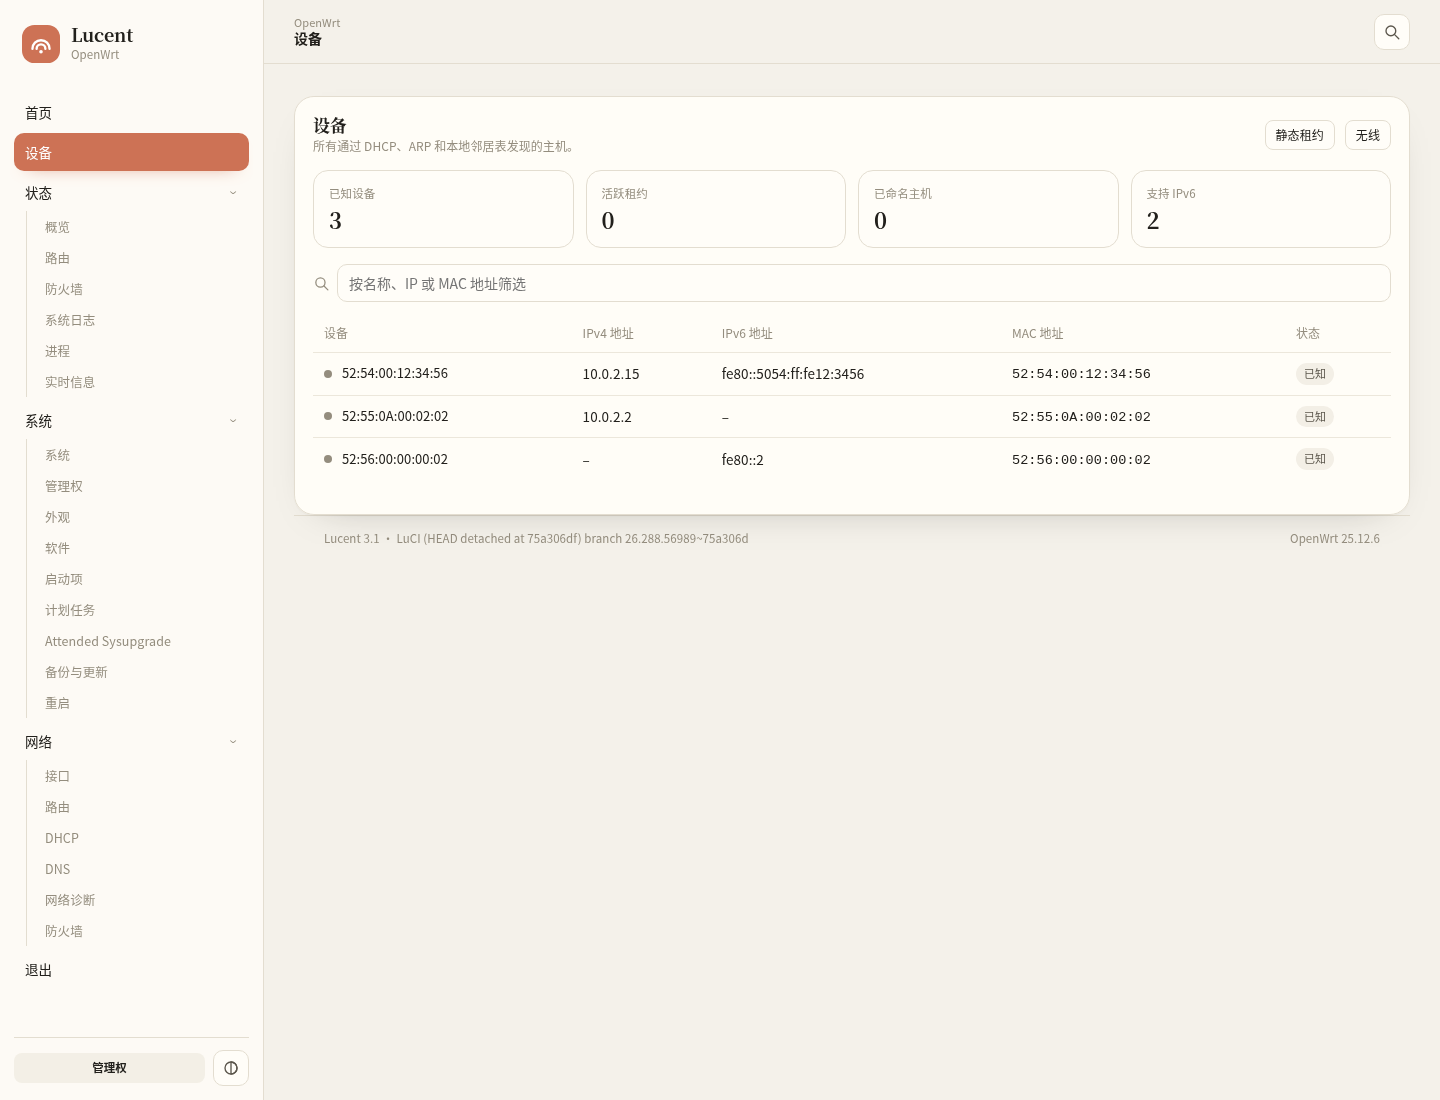
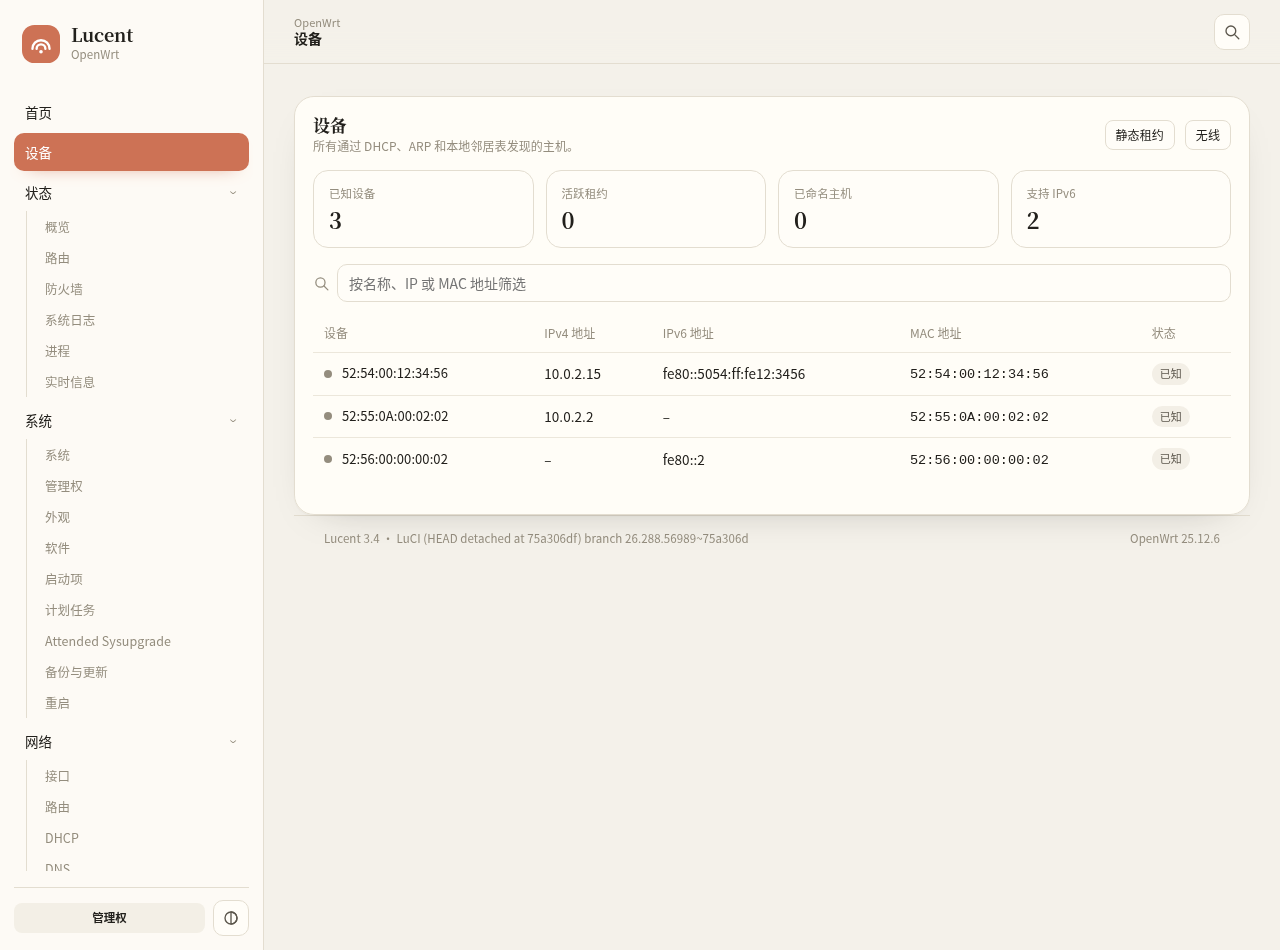
fix: release Lucent 3.4.0 (home route, loading anim, topology, tooltips, indicators)
- Home 'Software' quick action now targets admin/system/package-manager (was 404)
- .spinning loader draws ring via ::before so label text no longer rotates
- Home network topology shares card width; WiFi node no longer clipped ~768px
- Native .cbi-tooltip hidden by default, revealed on .cbi-tooltip-container hover
  (fixes overlapping interface badges and global data-tooltip popups)
- #indicators styled for real span[data-indicator] markup with active spinner
- Wireless quick action only rendered when a radio is present
- Version bump 3.3.0 -> 3.4.0, refreshed Chinese screenshots

diff --git a/htdocs/luci-static/lucent/theme.css b/htdocs/luci-static/lucent/theme.css
@@ -169,7 +169,11 @@ body:has(.ltc-wall) .ltc-lbox{background:color-mix(in srgb,var(--card) var(--gla
 .ltc-bar-right{margin-left:auto;display:flex;align-items:center;gap:8px}
 #indicators{display:flex;align-items:center;gap:6px;font-size:12px;color:var(--text-3)}
 #indicators:empty{display:none}
-#indicators .label{display:inline-flex;align-items:center;gap:6px;padding:5px 10px;border-radius:99px;background:var(--card);border:1px solid var(--line);white-space:nowrap}
+#indicators span[data-indicator]{display:inline-flex;align-items:center;gap:6px;padding:5px 10px;border-radius:99px;background:var(--card);border:1px solid var(--line);white-space:nowrap}
+#indicators span[data-indicator][data-style="active"]::before{content:'';flex:0 0 auto;width:11px;height:11px;border:2px solid var(--line);border-top-color:var(--accent);border-radius:50%;animation:ltc-spin .7s linear infinite}
+#indicators span[data-indicator][data-style="inactive"]{opacity:.72}
+#indicators span[data-indicator][data-clickable]{cursor:pointer}
+#indicators span[data-indicator][data-clickable]:hover{border-color:var(--accent);color:var(--text)}
 .ltc-icon-btn{
 	width:36px;height:36px;flex:none;display:grid;place-items:center;border:1px solid var(--line);
 	border-radius:10px;background:var(--card);color:var(--text-2);cursor:pointer;transition:background .18s,color .18s;
@@ -270,6 +274,14 @@ fieldset{min-width:0;border:0;margin:0;padding:0}
 .ifacebadge{display:inline-flex;align-items:center;gap:5px;padding:4px 7px;border-radius:7px;background:var(--card-2);font-size:11.5px}
 .zonebadge{display:inline-flex;align-items:center;gap:4px;padding:3px 7px;border-radius:99px;background:var(--tint);font-size:11px}
 
+/* native tooltips: global body-level popup (JS toggles opacity) + inline badges in .cbi-tooltip-container */
+.cbi-tooltip{position:absolute;left:0;top:0;z-index:1000;opacity:0;pointer-events:none;transition:opacity .12s ease;max-width:min(340px,82vw);padding:8px 11px;border:1px solid var(--line);border-radius:9px;background:var(--card);color:var(--text);box-shadow:var(--shadow-pop);font-size:11.5px;line-height:1.55;white-space:normal;text-align:left}
+.cbi-tooltip-container{position:relative;display:inline-flex;align-items:center;cursor:help}
+.cbi-tooltip-container > .cbi-tooltip{left:50%;top:auto;bottom:calc(100% + 8px);transform:translateX(-50%)}
+.cbi-tooltip-container:hover > .cbi-tooltip,.cbi-tooltip-container:focus-within > .cbi-tooltip{opacity:1}
+.cbi-tooltip img{display:none}
+.cbi-tooltip .left,.cbi-tooltip .right{display:block}
+
 /* ---------------------------------------------------------------- nav tabs */
 .tabs,.cbi-tabmenu{display:flex;flex-wrap:wrap;gap:4px;list-style:none;margin:0 0 18px;padding:0;border-bottom:1px solid var(--line)}
 .tabs>li,.cbi-tabmenu>li{flex:none;margin:0;padding:0;background:none!important;border:0}
@@ -340,18 +352,18 @@ fieldset{min-width:0;border:0;margin:0;padding:0}
 .ltc-kpi span{display:block;color:var(--text-3);font-size:11.5px;margin-top:3px;overflow-wrap:anywhere}
 
 .ltc-topo{display:flex;align-items:flex-start;gap:2px;margin:6px 0 14px;min-width:0}
-.ltc-node{flex:0 0 auto;width:66px;min-width:0;display:flex;flex-direction:column;align-items:center;gap:5px;text-align:center}
-.ltc-node .ic{width:48px;height:48px;display:grid;place-items:center;border-radius:14px;background:var(--card-2);color:var(--text-2)}
+.ltc-node{flex:1 1 0;min-width:0;display:flex;flex-direction:column;align-items:center;gap:5px;text-align:center}
+.ltc-node .ic{width:clamp(38px,9vw,48px);height:clamp(38px,9vw,48px);display:grid;place-items:center;border-radius:14px;background:var(--card-2);color:var(--text-2)}
 .ltc-node .ic svg{width:23px;height:23px;fill:none;stroke:currentColor;stroke-width:1.7;stroke-linecap:round;stroke-linejoin:round}
 .ltc-node.me .ic{background:var(--accent);color:var(--on-accent)}
 .ltc-node.bad .ic{background:color-mix(in srgb,var(--bad) 14%,transparent);color:var(--bad)}
 .ltc-node.ok .ic{background:color-mix(in srgb,var(--ok) 15%,transparent);color:var(--ok)}
-.ltc-node b{font-weight:600;font-size:clamp(10.5px,2.9cqi,13px);max-width:100%;white-space:nowrap;overflow:hidden;text-overflow:ellipsis}
-.ltc-node small{color:var(--text-3);font-size:11.5px;max-width:100%;white-space:nowrap;overflow:hidden;text-overflow:ellipsis}
-.ltc-wire{flex:1 1 8px;min-width:8px;display:flex;flex-direction:column;align-items:center;padding-top:20px}
+.ltc-node b{font-weight:600;font-size:11.5px;max-width:100%;white-space:nowrap;overflow:hidden;text-overflow:ellipsis}
+.ltc-node small{color:var(--text-3);font-size:11px;max-width:100%;white-space:nowrap;overflow:hidden;text-overflow:ellipsis}
+.ltc-wire{flex:0 0 14px;width:14px;min-width:0;display:flex;flex-direction:column;align-items:center;padding-top:20px}
 .ltc-wire i{position:relative;display:block;width:100%;height:2px;background:repeating-linear-gradient(90deg,var(--line) 0 5px,transparent 5px 10px)}
 .ltc-wire.down i{background:repeating-linear-gradient(90deg,var(--bad) 0 5px,transparent 5px 10px);opacity:.65}
-.ltc-wire em{font-size:10.5px;color:var(--text-3);font-style:normal;margin-top:7px;white-space:nowrap}
+.ltc-wire em{font-size:10px;color:var(--text-3);font-style:normal;margin-top:7px;white-space:nowrap}
 
 .ltc-facts{display:grid;grid-template-columns:repeat(auto-fit,minmax(105px,1fr));gap:13px 10px;padding-top:14px;border-top:1px solid var(--line-2)}
 .ltc-facts div{min-width:0}
@@ -470,7 +482,8 @@ body.modal-overlay-active #modal_overlay{opacity:1;visibility:visible}
 .modal .modal-content,.modal>div{width:100%;padding:0;border:0;background:transparent;box-shadow:none}
 .modal h4{font:600 20px var(--serif);margin:0 0 10px}
 .modal .button-row{display:flex;flex-wrap:wrap;justify-content:flex-end;gap:8px;margin-top:16px}
-.spinning{display:inline-block;width:16px;height:16px;border:2px solid var(--line);border-top-color:var(--accent);border-radius:50%;animation:ltc-spin .8s linear infinite;vertical-align:-3px}
+.spinning::before{content:'';display:inline-block;width:15px;height:15px;margin-right:.5em;vertical-align:-2px;border:2px solid var(--line);border-top-color:var(--accent);border-radius:50%;animation:ltc-spin .7s linear infinite}
+#view > .spinning{display:flex;align-items:center;justify-content:center;min-height:120px;padding:24px 0;color:var(--text-3);font-size:13.5px;font-weight:500}
 @keyframes ltc-spin{to{transform:rotate(360deg)}}
 
 /* ---------------------------------------------------------------- login */

diff --git a/htdocs/luci-static/resources/view/lucent/home.js b/htdocs/luci-static/resources/view/lucent/home.js
@@ -295,15 +295,17 @@ return view.extend({
 
 		var clientsCard = card(_('Devices'), E('a', { 'class': 'ltc-link', 'href': L.url('admin/clients') }, _('All devices') + ' →'), clientList);
 
+		var acts = [];
+		if (wifi.total > 0)
+			acts.push(action(L.url('admin/network/wireless'), 'wifi', _('Wireless')));
+		acts.push(action(L.url('admin/network/firewall'), 'shield', _('Firewall')));
+		acts.push(action(L.url('admin/network/dhcp'), 'devices', _('DHCP leases')));
+		acts.push(action(L.url('admin/system/package-manager'), 'download', _('Software')));
+		acts.push(action(L.url('admin/status/logs'), 'info', _('Logs')));
+		acts.push(action(L.url('admin/system/reboot'), 'refresh', _('Reboot')));
+
 		var actionsCard = card(_('Quick actions'), null,
-			E('div', { 'class': 'ltc-acts' }, [
-				action(L.url('admin/network/wireless'), 'wifi', _('Wireless')),
-				action(L.url('admin/network/firewall'), 'shield', _('Firewall')),
-				action(L.url('admin/network/dhcp'), 'devices', _('DHCP leases')),
-				action(L.url('admin/system/software'), 'download', _('Software')),
-				action(L.url('admin/status/logs'), 'info', _('Logs')),
-				action(L.url('admin/system/reboot'), 'refresh', _('Reboot'))
-			]));
+			E('div', { 'class': 'ltc-acts' }, acts));
 
 		this.startPoll();
 

diff --git a/htdocs/luci-static/resources/view/lucent/settings.js b/htdocs/luci-static/resources/view/lucent/settings.js
@@ -227,7 +227,7 @@ return view.extend({
 				])
 			]),
 			E('div', { 'class': 'ltc-hero-side' }, [
-				E('div', { 'class': 'ltc-hero-line' }, [E('small', {}, _('Theme')), E('b', {}, 'Lucent 3.3')]),
+				E('div', { 'class': 'ltc-hero-line' }, [E('small', {}, _('Theme')), E('b', {}, 'Lucent 3.4')]),
 				E('div', { 'class': 'ltc-hero-line' }, [E('small', {}, _('Storage')), E('b', {}, _('Router media library'))]),
 				E('div', { 'class': 'ltc-hero-line' }, [E('small', {}, _('Backend')), E('b', {}, 'rpcd · luci.lucent')])
 			])

diff --git a/CHANGELOG.md b/CHANGELOG.md
@@ -3,6 +3,36 @@
 All notable changes to Lucent 3 are documented here. The project follows
 [Semantic Versioning](https://semver.org/).
 
+## 3.4.0 — 2026-11-01
+
+### Fixed
+
+- **Home "Software" quick action returned 404.** It now links to the real
+  `admin/system/package-manager` route instead of the non-existent
+  `admin/system/software`.
+- **Loading animation rotated its own label.** The `.spinning` indicator now
+  draws the ring as a `::before` pseudo-element, so "Loading view…" (and busy
+  buttons / directory loaders) keep their text upright while only the dot
+  spins.
+- **Home network topology clipped at tablet widths.** The Internet → WAN →
+  Router → LAN → WiFi row now shares the card width (`flex:1 1 0`) with a
+  fluid icon size, so the WiFi node is no longer cut off around 768 px.
+- **Native tooltips were always visible and overlapping.** Interfaces and
+  other CBI pages showed the `Type / Device / Connected / MAC / RX / TX`
+  badges inline, cluttering the network diagram. `.cbi-tooltip` is now a
+  proper hover popup (hidden by default, revealed on `.cbi-tooltip-container`
+  hover), which also fixes the global `data-tooltip` popups.
+- **Header indicators were unstyled.** `#indicators` now targets the real
+  `span[data-indicator]` markup, with an active spinner, muted inactive state
+  and clickable hover.
+
+### Changed
+
+- Quick actions are now resilient: the Wireless shortcut is only shown when
+  the device reports at least one radio, so wired-only routers no longer get
+  a dead link.
+- Node label sizing no longer depends on an undefined container query unit.
+
 ## 3.3.0 — 2026-11-01
 
 ### Changed

diff --git a/README.md b/README.md
@@ -6,7 +6,7 @@ surfaces, a device list and an appearance panel — but shares no templates,
 stylesheets, scripts or package metadata with them.
 
 - Target: OpenWrt 25.12.x, LuCI 26.x (ucode)
-- Package: `luci-theme-lucent` 3.3.0
+- Package: `luci-theme-lucent` 3.4.0
 - Licence: Apache-2.0
 
 ## Screenshots
@@ -151,27 +151,27 @@ ssh root@192.168.1.1 'sh /tmp/lucent-offline-install.sh install'
 
 | 固件 | 文件 |
 | --- | --- |
-| OpenWrt 25.12 (apk) | `luci-theme-lucent-3.3.0-r1.apk` |
-| OpenWrt 23.05/24.10 (opkg) | `luci-theme-lucent_3.3.0-r1_all.ipk` |
-| 任意（无包管理器） | `lucent-3.3.0.tar.gz`（解压后 `./install.sh`） |
+| OpenWrt 25.12 (apk) | `luci-theme-lucent-3.4.0-r1.apk` |
+| OpenWrt 23.05/24.10 (opkg) | `luci-theme-lucent_3.4.0-r1_all.ipk` |
+| 任意（无包管理器） | `lucent-3.4.0.tar.gz`（解压后 `./install.sh`） |
 
 apk:
 
 ```sh
-apk add --allow-untrusted ./luci-theme-lucent-3.3.0-r1.apk
+apk add --allow-untrusted ./luci-theme-lucent-3.4.0-r1.apk
 ```
 
 opkg:
 
 ```sh
-opkg install ./luci-theme-lucent_3.3.0-r1_all.ipk
+opkg install ./luci-theme-lucent_3.4.0-r1_all.ipk
 ```
 
 Manual:
 
 ```sh
-tar -xzf lucent-3.3.0.tar.gz -C /tmp
-cd /tmp/luci-theme-lucent-3.3.0 && ./install.sh
+tar -xzf lucent-3.4.0.tar.gz -C /tmp
+cd /tmp/luci-theme-lucent-3.4.0 && ./install.sh
 ```
 
 The package registers itself as `Lucent` in `/etc/config/luci` and selects
